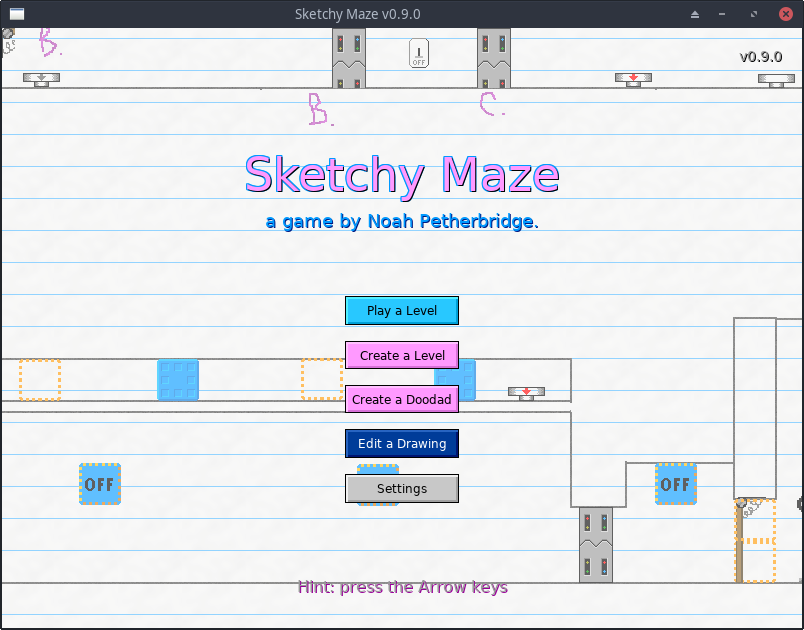
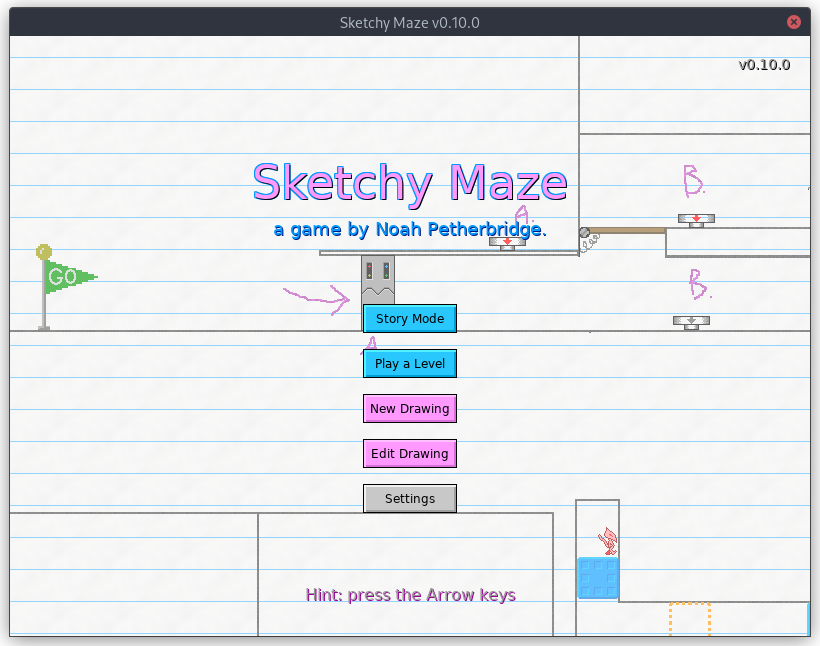
Update guidebook for v0.10.0

Changed region(s): [[0.0, 0.0, 1.0, 1.0]]

diff --git a/docs/changes.md b/docs/changes.md
@@ -1,6 +1,57 @@
 # Changes
 
-## v0.9.0 (TBD)
+## v0.10.0 (Dec 30 2021)
+
+New features and changes:
+
+* **Level Packs:** you can group a set of levels into a sequential
+  adventure. The game's built-in levels have been migrated into Level
+  Packs and users can create their own, too!
+* **Crosshair Option:** in the level editor you can have a crosshair
+  drawn at your cursor position, which may help align things while
+  making a level. Find the option in the game's Settings window.
+* **Smaller Palette Colors:** the color buttons in the Level Editor are
+  smaller and fit two to a row. This allows for more colors but may be
+  difficult for touch controls.
+* Doodad AI updates: the **Bird** records its original altitude and will
+  attempt to fly back there when it can, so in case it slid up or down a
+  ramp it will correct its height when it comes back the other way.
+* The "New Level" and "New Doodad" functions on the main menu are
+  consolidated into a window together that can create either, bringing
+  a proper UI to creating a doodad.
+* Added a setting to **hide touch control hints** from Play Mode.
+* The title screen is more adaptive to mobile. If the window height isn't
+  tall enough to show the menu, it switches to a 'landscape mode' layout.
+* Adds a custom icon to the application window.
+
+A few notes about level packs:
+
+* A levelpack is basically a zip file containing levels and custom
+  doodads. **Note:** the game does not yet handle the doodads folder
+  of a levelpack at all.
+* The `doodad` command-line tool can create .levelpack files. See
+  `doodad levelpack create --help`. This is the easiest way to
+  generate the `index.json` file.
+* In the future, a .levelpack will be able to hold custom doodads on
+  behalf of the levels it contains, de-duplicating files and saving
+  on space. Currently, the levels inside your levelpack should embed
+  their own custom doodads each.
+* Free (shareware) editions of the game can create and play custom
+  level packs that use only the game's built-in doodads. Free versions
+  of the game can't play levels with embedded custom doodads. You can
+  always copy custom .doodad files into your profile directory though!
+
+Bugs fixed:
+
+* Undo/Redo now works again for the Doodad Editor.
+* Fix crash when opening the Doodad Editor (v0.9.0 regression).
+* The Play Level/Edit Drawing window is more responsive to small screens
+  and will draw fewer columns of filenames.
+* Alert and Confirm popup modals always re-center themselves, especially
+  to adapt to the user switching from Portrait to Landscape orientation
+  on mobile.
+
+## v0.9.0 (Oct 9, 2021)
 
 New features:
 

diff --git a/docs/custom-levels/index.md b/docs/custom-levels/index.md
@@ -72,7 +72,7 @@ lines pattern. The page types and their effect on the wallpapers are:
 ### Default Palette
 
 When starting a **new** level, you may choose a default Palette to start out
-with. The available options as of **version 0.6.0** are:
+with. The available options as of **version 0.10.0** are:
 
 * **Default:** the classic palette from previous alpha game releases.
     1. **solid**: black, solid geometry
@@ -81,12 +81,14 @@ with. The available options as of **version 0.6.0** are:
     4. **water**: blue, water
     5. **hint**: pink
 * **Colored Pencil:** a new palette with some more varied default colors.
-    1. **grass**: green, solid geometry
-    2. **dirt**: brown, solid
-    3. **stone**: dark grey, solid
-    4. **fire**: red, fire
-    5. **water**: light blue (#0099FF), water
-    6. **hint**: pink
+    1. **darkstone**: dark grey, solid geometry
+    2. **grass**: green, solid
+    3. **dirt**: brown, solid
+    4. **stone**: grey, solid
+    5. **sandstone**: orangey, solid
+    6. **fire**: red, fire
+    7. **water**: light blue (#0099FF), water
+    8. **hint**: pink
 * **Blueprint:** the classic palette for levels with the Blueprint wallpaper:
     1. **solid**: white, solid
     2. **decoration:** light grey
@@ -317,46 +319,3 @@ color code; the extra two digits control the transparency between 00 (fully
 invisible) and FF (fully opaque).
 
 ![Enter an RGBA color value for see-thru colors](../images/palette-rgba.png)
-
----
-
-## Menu Bar
-
-While editing a level or doodad, a Menu Bar appears at the top of the screen.
-Its options include:
-
-* **File**
-    * New level (Ctrl-N)
-    * New doodad
-    * Save (Ctrl-S)
-    * Save as...
-    * Publish level (attach custom doodads for easy sharing)
-    * Open... (Ctrl-O)
-    * Close level
-    * Quit (Escape)
-* **Edit**
-    * Undo (Ctrl-Z)
-    * Redo (Ctrl-Y)
-    * Settings
-* **Level** _(only when editing a level)_
-    * Level Properties
-    * Attached files
-    * Playtest (P)
-* **Doodad** _(only when editing a doodad)_
-    * Doodad Properties
-    * Layers
-* **Tools**
-    * Debug overlay (F3)
-    * Command shell (Enter)
-    * Edit Palette
-    * Pencil Tool (f)
-    * Line Tool (L)
-    * Rectangle Tool (r)
-    * Ellipse Tool (c)
-    * Eraser Tool (x)
-    * Doodads (d)
-    * Link Tool
-* **Help**
-    * User Manual (F1)
-    * Register
-    * About

diff --git a/docs/controls.md b/docs/controls.md
@@ -1,8 +1,7 @@
 # Controls
 
-**Sketchy Maze** currently uses a mouse and keyboard for inputs, but eventually
-will be usable from gamepad controllers, especially if it branches out and
-targets platforms other than desktop computers in the future.
+**Sketchy Maze** currently uses a mouse and keyboard or touch screen for input,
+but eventually will be usable from gamepad controllers.
 
 The list of controls is also viewable in-game in the Settings Window, accessible
 from the title screen or the Edit->Settings menu of the editor. The controls can
@@ -10,7 +9,38 @@ not be customized at this time.
 
 ![Controls UI](images/controls.png)
 
-## During Gameplay
+## Touch Controls
+
+Buttons and UI windows can be touched and dragged around as though your finger
+is a mouse cursor. There are also some gestures supported:
+
+* Drag two fingers across the screen to **pan a scrollable drawing** such as
+  in the Level Editor or the Title Screen.
+    * Tip: for the Level Editor select the Actor Tool or Link Tool before
+      panning the level, otherwise you might plot some pixels on your map
+      before the game realizes you were just wanting to scroll!
+
+During gameplay, touch any region of the screen surrounding the center to move
+the player character in the relative direction you touched. By default, if you
+are idle in a level for a few seconds some on-screen hints will appear about
+the touch controls:
+
+![Touch Controls Hint](images/touch-controls.png)
+
+The square in the middle that says "Touch here to 'use' objects" is the center
+of your screen and all the other touch regions are directly touching this square.
+
+* Touch anywhere above center to **Jump.**
+* Touch anywhere left of center to **Move left.**
+* Touch anywhere right of center to **Move right.**
+* Touch anywhere below center to **Move downwards.** (note: for flying characters
+  like the Bird or during times of antigravity)
+* Touch the center to **Use** objects (such as to open a Warp Door).
+
+Generally the center is aligned on the player character unless you're close to
+level boundaries.
+
+## Keyboard Controls (Gameplay)
 
 While playing a level, the following keys are used to control the player character:
 

diff --git a/docs/register.md b/docs/register.md
@@ -1,0 +1,38 @@
+# Register Your Game
+
+_Sketchy Maze_ is a free (shareware) game and is intended to be fully functional
+in its free form, but for buying the game and supporting the creator you can unlock
+some additional functionality to make custom content and modding _much_ easier to do.
+
+Visit the [Sketchy Maze](https://www.sketchymaze.com/) website for the latest information
+on how you can register your copy of the game and unlock these extra features.
+
+## Activation
+
+When you register the game you will receive a License Key file. From the game's main
+menu, click on the Register button (or from the level editor, the Help->Register menu)
+and click to browse for your License Key file and select it.
+
+The game handles activation completely off-line (signed JWT) and it's _always_ yours and will
+always work for that version of the game at least. The developer reserves the right
+to revoke license keys with _future_ releases of the game in case keys are leaked onto
+piracy websites -- but versions of the game which accept a key today will always
+activate with that key.
+
+## Features
+
+The notable features that registering your game will unlock (as of v0.10.0) include:
+
+* The ability to [publish](custom-levels/publishing.md) and play levels which
+  **embed custom doodads** _inside_ the .level data for easy transport to "just play" on another
+  registered copy of the game.
+* And by extension, the ability to play a custom [Level Pack](custom-levels/levelpacks.md)
+  which embeds custom doodads.
+
+The free version of the game can use [custom doodads](custom-doodads/index.md):
+if the player copies the .doodad files into their [profile directory](profile-directory.md)
+they will appear in the Level Editor and will work in levels that ask for those doodads.
+Players can share custom levels and custom doodads, but the player needs to manage these files by hand.
+The features unlocked _so far_ allow levels to just _ship with_ their doodads and "just work"
+when you download and play their .level file, and [Level Packs](custom-levels/levelpacks.md)
+can do the same.

diff --git a/docs/custom-levels/levelpacks.md b/docs/custom-levels/levelpacks.md
@@ -27,7 +27,7 @@ Custom doodads:
   by its levels. Instead of each level needing to [publish](publishing.md) (embed) its
   doodads individually, the level pack holds onto them so multiple levels can use them
   while saving on disk space!
-* **Note:** Free (shareware) versions of the game fully support custom Level Packs, but they don't
+* **Note:** [Free (shareware)](../register.md) versions of the game fully support custom Level Packs, but they don't
   support embedded custom doodads. Level Packs that use only the built-in doodads work
   perfectly, and in case you're using custom doodads, the player may manually install the
   custom doodads in their [profile directory](../profile-directory.md) and play it that way.
@@ -88,7 +88,7 @@ files to exist in the levelpack which _are not_ described in the index.json; the
 will not be reachable in-game but in the future this may support hiding bonus levels linked
 to by other levels in the pack.
 
-**Note:** the game does not yet do anything with the `doodads` folder. In the future, this
+**TO DO:** the game does not yet do anything with the `doodads` folder. In the future, this
 folder will help a group of levels embed a custom doodad _once_ in the levelpack instead of
 each keeping a separate copy.
 

diff --git a/docs/custom-levels/publishing.md b/docs/custom-levels/publishing.md
@@ -10,12 +10,12 @@ easy sharing with others: another player can download _just_ your `.level` file
 and it will "just play" in their copy of the game, and they don't need to track
 down all the same custom doodads you've used.
 
-> <em>**Notice:** This feature is only available for full (registered) versions of the
-> game. The free (shareware) version of </em>Sketchy Maze<em> supports custom levels
+> <em>**Notice:** This feature is only available to [registered](../register.md)
+> copies of the game. The free (shareware) version of <em>Sketchy Maze</em> supports custom levels
 > and doodads, but you would need to copy the custom `.doodad` files to each
 > computer your level will play on, otherwise the game won't be able to find
-> them! Check [the website](https://www.sketchymaze.com/) for details how to acquire
-> a full version of the game.</em>
+> them! See [here](../register.md) for details how to acquire a full version of
+> the game.</em>
 
 ## Publish a Level
 

diff --git a/docs/index.md b/docs/index.md
@@ -7,7 +7,7 @@ maps on paper. You can draw a level for a 2D platformer game, drag-and-drop
 "doodads" such as buttons and doors into your level, play it and share your
 levels with others.
 
-**Last Updated:** Oct. 8, 2021 for Sketchy Maze v0.9.0.
+**Last Updated:** Dec. 30, 2021 for Sketchy Maze v0.10.0.
 
 ## Table of Contents
 
